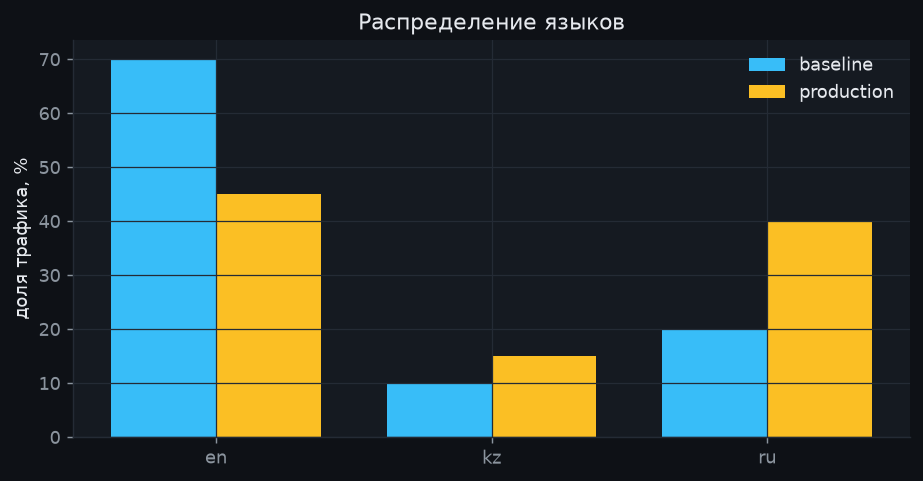
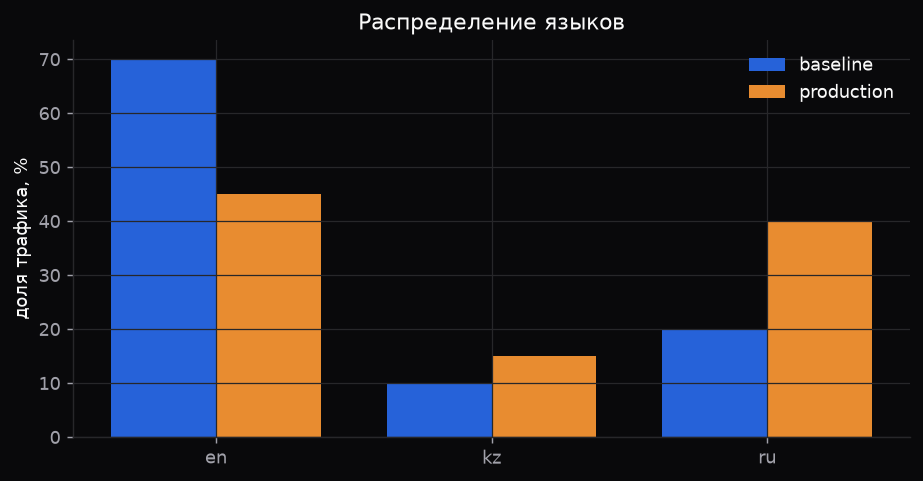
style: графики в отчётах в той же палитре, что и дашборд

diff --git a/app/charts.py b/app/charts.py
@@ -6,16 +6,17 @@ import matplotlib
 matplotlib.use("Agg")
 import matplotlib.pyplot as plt  # noqa: E402
 
-BG = "#0e1116"
-PANEL = "#151a21"
-GRID = "#242b35"
-TEXT = "#e6e9ee"
-MUTED = "#8b949e"
-ACCENT = "#4ade80"
-ACCENT_2 = "#38bdf8"
-WARN = "#fbbf24"
-DANGER = "#f87171"
-VIOLET = "#a78bfa"
+# Цвета совпадают с дашбордом: тема zinc и палитра chart-1..chart-5 из shadcn/ui
+BG = "#09090b"
+PANEL = "#09090b"
+GRID = "#27272a"
+TEXT = "#fafafa"
+MUTED = "#a1a1aa"
+ACCENT = "#2eb88a"
+ACCENT_2 = "#2662d9"
+WARN = "#e88c30"
+DANGER = "#ef4444"
+VIOLET = "#af57db"
 
 PALETTE = [ACCENT, ACCENT_2, VIOLET, WARN, DANGER, "#f472b6"]
 
